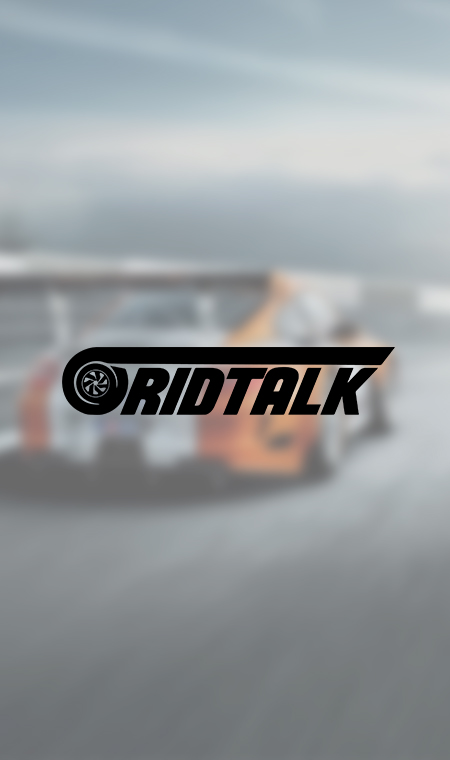
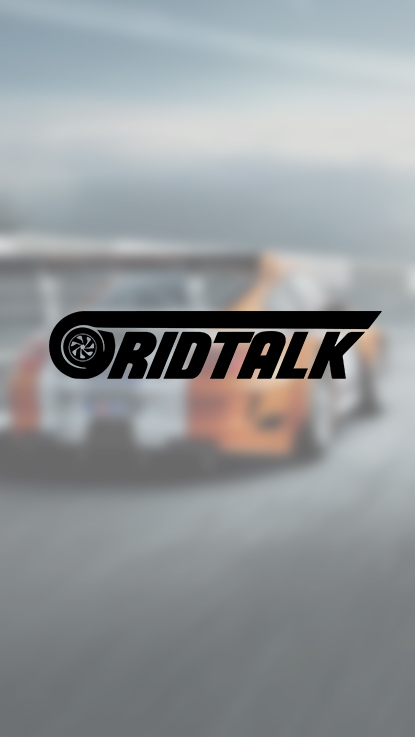
fixes to art

diff --git a/style/style.css b/style/style.css
@@ -6,7 +6,7 @@ button {
   color: #FFFFFF;
   background: transparent;
   cursor: pointer !important;
-  border-color: ##FFFFFF;
+  border: 1px solid #FFFFFF;
   border-radius: 20px;
   width: 130px;
   height: 30px;
@@ -118,6 +118,10 @@ body, html {
 @media only screen and (max-width : 768px) {
     #parallax1 {
       background-image: url('../images/mobile/gridtalkMobile.jpg');
+    }
+    .parallax {
+      background-attachment: none;
+      background-position: center center;
     }
 
     #logo {
